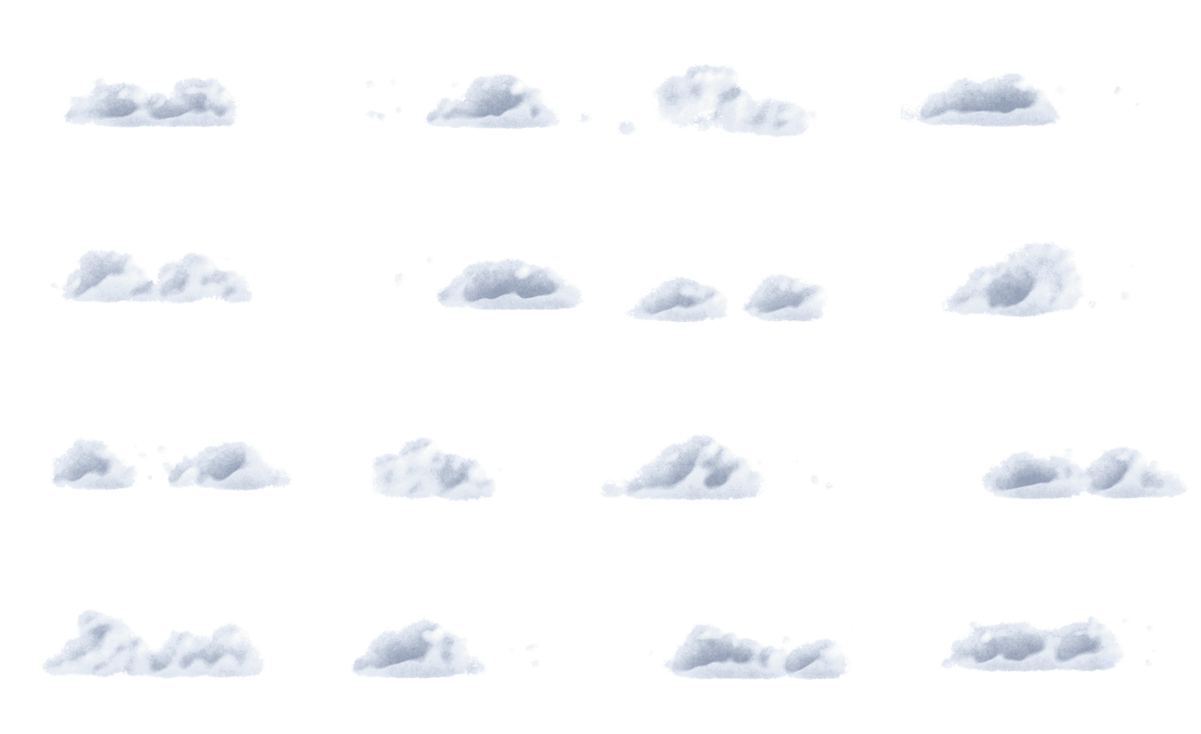
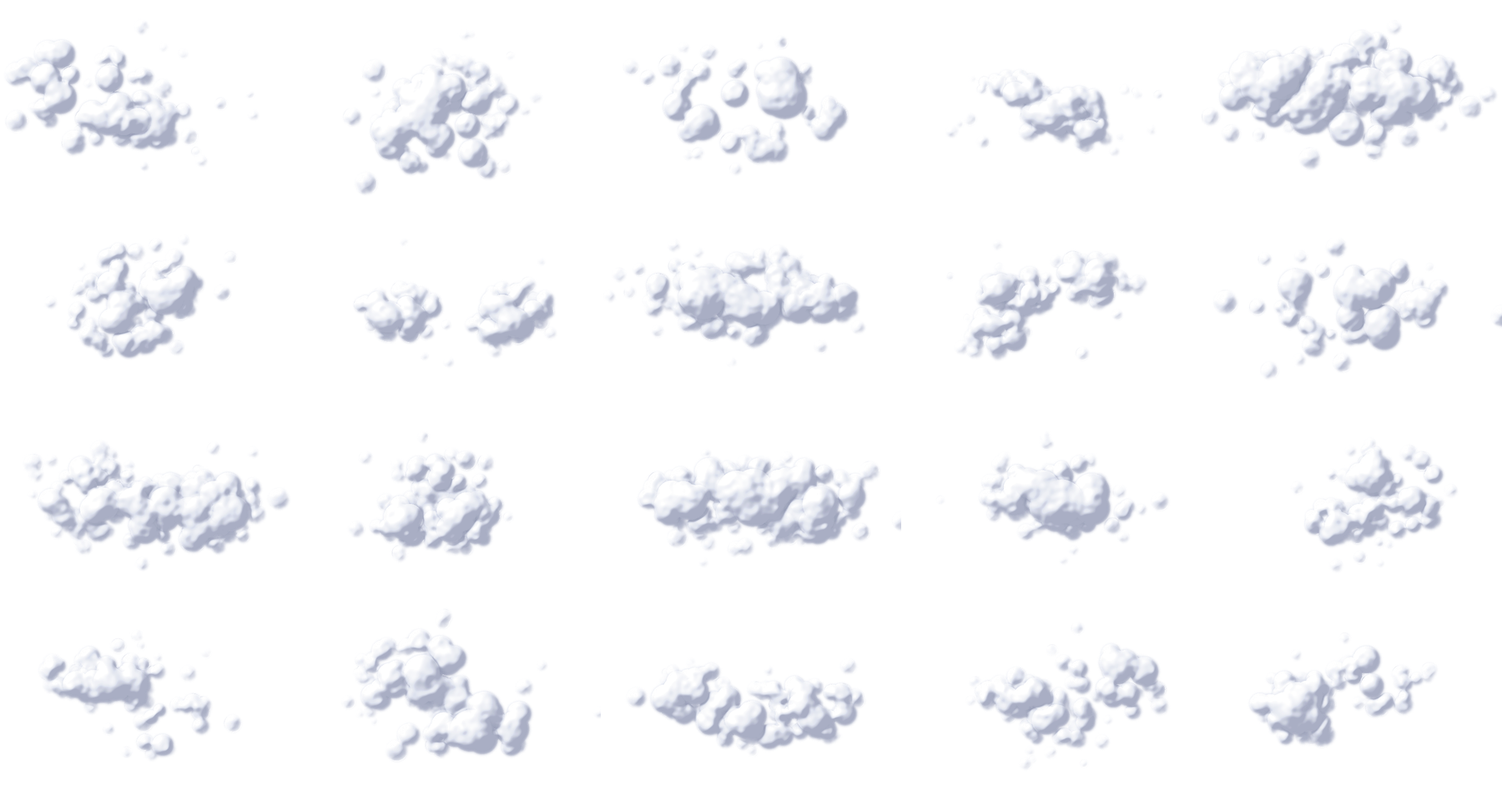
Облака вида сверху (мягко слитые клубы, свет по нормали, тающий край), прозрачнее при приближении, параллакс, бесконечный поток вокруг видимой части карты; подсказка над провинцией снова оформлена
Claude-Session: https://claude.ai/code/session_01DB8qGZSVeWu67G2NacHSuU

diff --git a/index.html b/index.html
@@ -41,7 +41,7 @@ h2,h3{font-weight:normal;color:var(--gold2);margin:4px 0 8px}
 #veccv{position:absolute;left:0;top:0;pointer-events:none;z-index:1}
 #cloudcv{position:absolute;left:0;top:0;pointer-events:none;z-index:2}
 #mapover{position:absolute;left:0;top:0;transform-origin:0 0;z-index:2;pointer-events:none}
-#mapinner.far #ptip{position:fixed;pointer-events:none;z-index:20;background:rgba(20,12,24,.92);border:1px solid var(--gold);border-radius:6px;padding:3px 8px;font-size:13px;white-space:nowrap}
+#ptip{position:fixed;pointer-events:none;z-index:20;background:rgba(20,12,24,.92);border:1px solid var(--gold);border-radius:6px;padding:3px 8px;font-size:13px;white-space:nowrap}
 #markers{position:absolute;left:0;top:0}
 .rm{position:absolute;transform:translate(-50%,-50%) scale(var(--s,1));pointer-events:auto;cursor:pointer;text-align:center;white-space:nowrap}
 .rm .dot{display:inline-block;width:14px;height:14px;border-radius:3px;border:2px solid #2a1a10;vertical-align:middle}
@@ -165,7 +165,7 @@ table.t td,table.t th{border-bottom:1px solid #3a2b42;padding:3px 6px;text-align
 <script src="borders.js"></script>
 <script src="roads.js"></script>
 <script>
-const GAME_VERSION = {"v": 64, "date": "07.11.2026 17:43"};
+const GAME_VERSION = {"v": 65, "date": "07.11.2026 20:53"};
 'use strict';
 /* =====================================================================
    ДЕРЖАВА ПАЛЕОЛОГОВ — один файл. Разделы:
@@ -2971,15 +2971,18 @@ if (!HEADLESS && typeof fetch !== 'undefined' && location.protocol !== 'file:') 
     CA.img = im; CA.sh = c; CA.meta = m;
   }; im.src = 'clouds.png';
 }).catch(() => { });
-function cloudsInit() {
-  if (CL.list.length || !MAPINFO || !CA.meta) return;
-  let s = 7; const r = () => (s = (s * 16807) % 2147483647) / 2147483647, n = CA.meta.n;
-  for (let i = 0; i < 22; i++) {
-    const parts = [], k = 2 + Math.floor(r() * 3), sz = 150 + r() * 120;   // ширина главной части, px карты
-    for (let j = 0; j < k; j++) parts.push({ s: Math.floor(r() * n), dx: j ? (r() - 0.5) * sz * 1.1 : 0, dy: j ? (r() - 0.6) * sz * 0.22 : 0, w: sz * (j ? 0.45 + r() * 0.45 : 1), fl: r() < 0.5, a: j ? 0.85 + r() * 0.15 : 1 });
-    parts.sort((p, q) => p.dy - q.dy);   // дальние (выше) — раньше
-    CL.list.push({ x: r() * MAPINFO.W, y: r() * MAPINFO.H, w: sz * 1.8, parts, v: 0.6 + r() * 0.7 });
-  }
+// облака идут вокруг того места, куда смотрит игрок: «область облаков» = видимая часть карты с запасом;
+// облако, ушедшее за неё по ветру, снова рождается с наветренной (западной) стороны и плавно проявляется
+const WIND = [9, 1.6];   // px карты в секунду
+let CSEED = 7; const crnd = () => (CSEED = (CSEED * 16807) % 2147483647) / 2147483647;
+function newCloud(c, x0, y0, x1, y1, upwind) {
+  const n = CA.meta.n, parts = [], k = 2 + Math.floor(crnd() * 3), sz = 150 + crnd() * 130;
+  for (let j = 0; j < k; j++) parts.push({ s: Math.floor(crnd() * n), dx: j ? (crnd() - 0.5) * sz * 1.2 : 0, dy: j ? (crnd() - 0.5) * sz * 0.45 : 0, w: sz * (j ? 0.45 + crnd() * 0.5 : 1), fl: crnd() < 0.5, fv: crnd() < 0.3 });
+  parts.sort((p, q) => p.dy - q.dy);
+  c.parts = parts; c.w = sz * 1.9; c.v = 0.6 + crnd() * 0.7; c.age = 0;
+  if (upwind) { c.x = x0 - c.w * (0.6 + crnd()); c.y = y0 + crnd() * (y1 - y0); }
+  else { c.x = x0 + crnd() * (x1 - x0); c.y = y0 + crnd() * (y1 - y0); }
+  return c;
 }
 function cloudFrame(now) {
   requestAnimationFrame(cloudFrame);
@@ -2988,24 +2991,36 @@ function cloudFrame(now) {
   if (!show) { if (cv.width) { cv.width = 0; } CL.last = now; return; }
   if (now - CL.last < 33 || !CA.img) return;   // ~30 кадров/с
   const dt = Math.min(0.2, (now - CL.last) / 1000); CL.last = now;
-  cloudsInit();
   const wrap = $('mapwrap'), dpr = Math.min(2, window.devicePixelRatio || 1), Wd = wrap.clientWidth, Hd = wrap.clientHeight;
   if (cv.width !== Math.round(Wd * dpr) || cv.height !== Math.round(Hd * dpr)) { cv.width = Math.round(Wd * dpr); cv.height = Math.round(Hd * dpr); cv.style.width = Wd + 'px'; cv.style.height = Hd + 'px'; }
   const x = cv.getContext('2d'), v = UI.view, z = v.z, M = MAPINFO;
   x.setTransform(1, 0, 0, 1, 0, 0); x.clearRect(0, 0, cv.width, cv.height);
-  x.setTransform(dpr * z, 0, 0, dpr * z, dpr * v.x, dpr * v.y);
-  const fade = clamp(1.25 - (z * M.W / 5298 - 0.6) * 0.45, 0.35, 1);   // вблизи облака прозрачнее
-  const vx0 = -v.x / z, vy0 = -v.y / z, vx1 = vx0 + Wd / z, vy1 = vy0 + Hd / z;
-  const m = CA.meta, sw = m ? m.w : 1, shh = m ? m.h : 1;
+  // видимость от приближения: на отдалении плотные, вблизи почти прозрачные (не мешают рассматривать карту)
+  const zs = z * M.W / 5298, fade = clamp(1.12 - zs * 0.42, 0.08, 1), shf = clamp(1.1 - zs * 0.3, 0.25, 1);
+  // область облаков: видимое + запас; количество — по площади (≈ одно облако на 520×520 px карты)
+  const vx0 = -v.x / z, vy0 = -v.y / z, vx1 = vx0 + Wd / z, vy1 = vy0 + Hd / z, mw = (vx1 - vx0) * 0.5 + 300, mh = (vy1 - vy0) * 0.5 + 200;
+  const ax0 = vx0 - mw, ay0 = vy0 - mh, ax1 = vx1 + mw, ay1 = vy1 + mh;
+  const want = clamp(Math.round((ax1 - ax0) * (ay1 - ay0) / (520 * 520)), 4, 46);
+  while (CL.list.length < want) CL.list.push(newCloud({}, ax0, ay0, ax1, ay1, false));
+  if (CL.list.length > want) CL.list.length = want;
+  const m = CA.meta, sw = m.w, shh = m.h;
+  // параллакс: облака выше земли — при сдвиге карты смещаются чуть сильнее своих теней
+  const cxs = Wd / 2, cys = Hd / 2, PAR = 1.1;
   for (const c of CL.list) {
-    c.x += 9 * c.v * dt; c.y += 1.6 * c.v * dt;               // ветер с запада
-    if (c.x > M.W + 300) c.x = -c.w - 300; if (c.y > M.H + 200) c.y = -200;
-    if (c.x + c.w + 120 < vx0 || c.x - c.w - 120 > vx1 || c.y + c.w + 160 < vy0 || c.y - c.w > vy1) continue;
-    for (const pass of [0, 1]) for (const p of c.parts) {
-      const w = p.w, h = w * shh / sw, sx = (p.s % m.cols) * sw, sy = Math.floor(p.s / m.cols) * shh;
-      x.save(); x.translate(c.x + p.dx + (pass ? 0 : 60), c.y + p.dy + (pass ? 0 : 95)); if (p.fl) x.scale(-1, 1);
-      x.globalAlpha = (pass ? 0.92 * p.a : 0.16) * fade; x.drawImage(pass ? CA.img : CA.sh, sx, sy, sw, shh, -w / 2, -h, w, h);
-      x.restore();
+    c.x += WIND[0] * c.v * dt; c.y += WIND[1] * c.v * dt; c.age += dt;
+    if (c.x - c.w > ax1 || c.y - c.w > ay1) newCloud(c, ax0, ay0, ax1, ay1, true);            // ушло по ветру — новое с запада
+    else if (c.x + c.w < ax0 - 400 || c.y + c.w < ay0 - 400 || c.x - c.w > ax1 + 400) newCloud(c, ax0, ay0, ax1, ay1, false);   // карту сдвинули далеко
+    const born = clamp(c.age / 3, 0, 1);
+    if (c.x + c.w + 120 < vx0 - 200 || c.x - c.w - 120 > vx1 + 200 || c.y + c.w + 160 < vy0 - 200 || c.y - c.w > vy1 + 200) continue;
+    for (const pass of [0, 1]) {
+      if (pass) x.setTransform(dpr * z * PAR, 0, 0, dpr * z * PAR, dpr * (cxs + (v.x - cxs) * PAR), dpr * (cys + (v.y - cys) * PAR));
+      else x.setTransform(dpr * z, 0, 0, dpr * z, dpr * v.x, dpr * v.y);
+      for (const p of c.parts) {
+        const w = p.w, h = w * shh / sw, sx = (p.s % m.cols) * sw, sy = Math.floor(p.s / m.cols) * shh;
+        x.save(); x.translate(c.x + p.dx + (pass ? 0 : 70), c.y + p.dy + (pass ? 0 : 90)); x.scale(p.fl ? -1 : 1, p.fv ? -1 : 1);
+        x.globalAlpha = (pass ? 0.95 * fade : 0.17 * shf) * born; x.drawImage(pass ? CA.img : CA.sh, sx, sy, sw, shh, -w / 2, -h / 2, w, h);
+        x.restore();
+      }
     }
   }
   x.globalAlpha = 1;

diff --git a/tools/src/6_ui.js b/tools/src/6_ui.js
@@ -722,15 +722,18 @@ if (!HEADLESS && typeof fetch !== 'undefined' && location.protocol !== 'file:') 
     CA.img = im; CA.sh = c; CA.meta = m;
   }; im.src = 'clouds.png';
 }).catch(() => { });
-function cloudsInit() {
-  if (CL.list.length || !MAPINFO || !CA.meta) return;
-  let s = 7; const r = () => (s = (s * 16807) % 2147483647) / 2147483647, n = CA.meta.n;
-  for (let i = 0; i < 22; i++) {
-    const parts = [], k = 2 + Math.floor(r() * 3), sz = 150 + r() * 120;   // ширина главной части, px карты
-    for (let j = 0; j < k; j++) parts.push({ s: Math.floor(r() * n), dx: j ? (r() - 0.5) * sz * 1.1 : 0, dy: j ? (r() - 0.6) * sz * 0.22 : 0, w: sz * (j ? 0.45 + r() * 0.45 : 1), fl: r() < 0.5, a: j ? 0.85 + r() * 0.15 : 1 });
-    parts.sort((p, q) => p.dy - q.dy);   // дальние (выше) — раньше
-    CL.list.push({ x: r() * MAPINFO.W, y: r() * MAPINFO.H, w: sz * 1.8, parts, v: 0.6 + r() * 0.7 });
-  }
+// облака идут вокруг того места, куда смотрит игрок: «область облаков» = видимая часть карты с запасом;
+// облако, ушедшее за неё по ветру, снова рождается с наветренной (западной) стороны и плавно проявляется
+const WIND = [9, 1.6];   // px карты в секунду
+let CSEED = 7; const crnd = () => (CSEED = (CSEED * 16807) % 2147483647) / 2147483647;
+function newCloud(c, x0, y0, x1, y1, upwind) {
+  const n = CA.meta.n, parts = [], k = 2 + Math.floor(crnd() * 3), sz = 150 + crnd() * 130;
+  for (let j = 0; j < k; j++) parts.push({ s: Math.floor(crnd() * n), dx: j ? (crnd() - 0.5) * sz * 1.2 : 0, dy: j ? (crnd() - 0.5) * sz * 0.45 : 0, w: sz * (j ? 0.45 + crnd() * 0.5 : 1), fl: crnd() < 0.5, fv: crnd() < 0.3 });
+  parts.sort((p, q) => p.dy - q.dy);
+  c.parts = parts; c.w = sz * 1.9; c.v = 0.6 + crnd() * 0.7; c.age = 0;
+  if (upwind) { c.x = x0 - c.w * (0.6 + crnd()); c.y = y0 + crnd() * (y1 - y0); }
+  else { c.x = x0 + crnd() * (x1 - x0); c.y = y0 + crnd() * (y1 - y0); }
+  return c;
 }
 function cloudFrame(now) {
   requestAnimationFrame(cloudFrame);
@@ -739,24 +742,36 @@ function cloudFrame(now) {
   if (!show) { if (cv.width) { cv.width = 0; } CL.last = now; return; }
   if (now - CL.last < 33 || !CA.img) return;   // ~30 кадров/с
   const dt = Math.min(0.2, (now - CL.last) / 1000); CL.last = now;
-  cloudsInit();
   const wrap = $('mapwrap'), dpr = Math.min(2, window.devicePixelRatio || 1), Wd = wrap.clientWidth, Hd = wrap.clientHeight;
   if (cv.width !== Math.round(Wd * dpr) || cv.height !== Math.round(Hd * dpr)) { cv.width = Math.round(Wd * dpr); cv.height = Math.round(Hd * dpr); cv.style.width = Wd + 'px'; cv.style.height = Hd + 'px'; }
   const x = cv.getContext('2d'), v = UI.view, z = v.z, M = MAPINFO;
   x.setTransform(1, 0, 0, 1, 0, 0); x.clearRect(0, 0, cv.width, cv.height);
-  x.setTransform(dpr * z, 0, 0, dpr * z, dpr * v.x, dpr * v.y);
-  const fade = clamp(1.25 - (z * M.W / 5298 - 0.6) * 0.45, 0.35, 1);   // вблизи облака прозрачнее
-  const vx0 = -v.x / z, vy0 = -v.y / z, vx1 = vx0 + Wd / z, vy1 = vy0 + Hd / z;
-  const m = CA.meta, sw = m ? m.w : 1, shh = m ? m.h : 1;
+  // видимость от приближения: на отдалении плотные, вблизи почти прозрачные (не мешают рассматривать карту)
+  const zs = z * M.W / 5298, fade = clamp(1.12 - zs * 0.42, 0.08, 1), shf = clamp(1.1 - zs * 0.3, 0.25, 1);
+  // область облаков: видимое + запас; количество — по площади (≈ одно облако на 520×520 px карты)
+  const vx0 = -v.x / z, vy0 = -v.y / z, vx1 = vx0 + Wd / z, vy1 = vy0 + Hd / z, mw = (vx1 - vx0) * 0.5 + 300, mh = (vy1 - vy0) * 0.5 + 200;
+  const ax0 = vx0 - mw, ay0 = vy0 - mh, ax1 = vx1 + mw, ay1 = vy1 + mh;
+  const want = clamp(Math.round((ax1 - ax0) * (ay1 - ay0) / (520 * 520)), 4, 46);
+  while (CL.list.length < want) CL.list.push(newCloud({}, ax0, ay0, ax1, ay1, false));
+  if (CL.list.length > want) CL.list.length = want;
+  const m = CA.meta, sw = m.w, shh = m.h;
+  // параллакс: облака выше земли — при сдвиге карты смещаются чуть сильнее своих теней
+  const cxs = Wd / 2, cys = Hd / 2, PAR = 1.1;
   for (const c of CL.list) {
-    c.x += 9 * c.v * dt; c.y += 1.6 * c.v * dt;               // ветер с запада
-    if (c.x > M.W + 300) c.x = -c.w - 300; if (c.y > M.H + 200) c.y = -200;
-    if (c.x + c.w + 120 < vx0 || c.x - c.w - 120 > vx1 || c.y + c.w + 160 < vy0 || c.y - c.w > vy1) continue;
-    for (const pass of [0, 1]) for (const p of c.parts) {
-      const w = p.w, h = w * shh / sw, sx = (p.s % m.cols) * sw, sy = Math.floor(p.s / m.cols) * shh;
-      x.save(); x.translate(c.x + p.dx + (pass ? 0 : 60), c.y + p.dy + (pass ? 0 : 95)); if (p.fl) x.scale(-1, 1);
-      x.globalAlpha = (pass ? 0.92 * p.a : 0.16) * fade; x.drawImage(pass ? CA.img : CA.sh, sx, sy, sw, shh, -w / 2, -h, w, h);
-      x.restore();
+    c.x += WIND[0] * c.v * dt; c.y += WIND[1] * c.v * dt; c.age += dt;
+    if (c.x - c.w > ax1 || c.y - c.w > ay1) newCloud(c, ax0, ay0, ax1, ay1, true);            // ушло по ветру — новое с запада
+    else if (c.x + c.w < ax0 - 400 || c.y + c.w < ay0 - 400 || c.x - c.w > ax1 + 400) newCloud(c, ax0, ay0, ax1, ay1, false);   // карту сдвинули далеко
+    const born = clamp(c.age / 3, 0, 1);
+    if (c.x + c.w + 120 < vx0 - 200 || c.x - c.w - 120 > vx1 + 200 || c.y + c.w + 160 < vy0 - 200 || c.y - c.w > vy1 + 200) continue;
+    for (const pass of [0, 1]) {
+      if (pass) x.setTransform(dpr * z * PAR, 0, 0, dpr * z * PAR, dpr * (cxs + (v.x - cxs) * PAR), dpr * (cys + (v.y - cys) * PAR));
+      else x.setTransform(dpr * z, 0, 0, dpr * z, dpr * v.x, dpr * v.y);
+      for (const p of c.parts) {
+        const w = p.w, h = w * shh / sw, sx = (p.s % m.cols) * sw, sy = Math.floor(p.s / m.cols) * shh;
+        x.save(); x.translate(c.x + p.dx + (pass ? 0 : 70), c.y + p.dy + (pass ? 0 : 90)); x.scale(p.fl ? -1 : 1, p.fv ? -1 : 1);
+        x.globalAlpha = (pass ? 0.95 * fade : 0.17 * shf) * born; x.drawImage(pass ? CA.img : CA.sh, sx, sy, sw, shh, -w / 2, -h / 2, w, h);
+        x.restore();
+      }
     }
   }
   x.globalAlpha = 1;

diff --git a/tools/src/1_head.html b/tools/src/1_head.html
@@ -41,7 +41,7 @@ h2,h3{font-weight:normal;color:var(--gold2);margin:4px 0 8px}
 #veccv{position:absolute;left:0;top:0;pointer-events:none;z-index:1}
 #cloudcv{position:absolute;left:0;top:0;pointer-events:none;z-index:2}
 #mapover{position:absolute;left:0;top:0;transform-origin:0 0;z-index:2;pointer-events:none}
-#mapinner.far #ptip{position:fixed;pointer-events:none;z-index:20;background:rgba(20,12,24,.92);border:1px solid var(--gold);border-radius:6px;padding:3px 8px;font-size:13px;white-space:nowrap}
+#ptip{position:fixed;pointer-events:none;z-index:20;background:rgba(20,12,24,.92);border:1px solid var(--gold);border-radius:6px;padding:3px 8px;font-size:13px;white-space:nowrap}
 #markers{position:absolute;left:0;top:0}
 .rm{position:absolute;transform:translate(-50%,-50%) scale(var(--s,1));pointer-events:auto;cursor:pointer;text-align:center;white-space:nowrap}
 .rm .dot{display:inline-block;width:14px;height:14px;border-radius:3px;border:2px solid #2a1a10;vertical-align:middle}

diff --git a/tools/mkclouds.py b/tools/mkclouds.py
@@ -1,67 +1,83 @@
-# Облака в духе Knights of Honor: объёмные, пористые, из множества клубов; свет сверху-слева.
-# Выход: ../clouds.png (атлас N×(SW×SH), RGBA) и ../clouds.json ({w, h, n, cols}).
-# Игра собирает облако на карте из 2–4 заготовок атласа («конструктор») + мелкие клочки.
+# Облака в духе Knights of Honor — ВИД СВЕРХУ: «цветная капуста» из десятков шаров-клубов.
+# Поле высот = максимум полусфер клубов; освещение по нормали (свет сверху-слева), тёмные ложбинки между клубами,
+# тонкие полупрозрачные края, мелкие оторванные клочки вокруг.
+# Выход: ../clouds.png (атлас N заготовок SW×SH, RGBA) и ../clouds.json. Игра собирает облако из 2–4 заготовок.
 import os, sys, json
 import numpy as np
 from PIL import Image
 import scipy.ndimage as nd
 SP = os.path.dirname(os.path.abspath(__file__)) + '/'
 OUT = sys.argv[1] if len(sys.argv) > 1 else SP + '..'
-SW, SH, N, COLS = 360, 220, 16, 4
-def fbm(shape, scale, rng, oct=5):
-    o = np.zeros(shape, np.float32); a = 1.0; t = 0
-    for i in range(oct):
-        o += a * nd.gaussian_filter(rng.standard_normal(shape).astype(np.float32), max(scale / 2 ** i, 0.6)); t += a; a *= 0.55
-    o -= o.mean(); return o / (o.std() + 1e-6)
+SW, SH, N, COLS = 360, 240, 20, 5
+S = 2
+LIGHT = np.array([-0.55, -0.62, 0.5]); LIGHT /= np.linalg.norm(LIGHT)
+def fbm(shape, s, r, oct=4):
+    o = np.zeros(shape, np.float32); a = 1
+    for i in range(oct): o += a * nd.gaussian_filter(r.standard_normal(shape).astype(np.float32), max(s / 2 ** i, .6)); a *= .55
+    return (o - o.mean()) / (o.std() + 1e-6)
 def cloud(seed):
     r = np.random.default_rng(seed)
-    S = 2; H, W = SH * S, SW * S
-    yy, xx = np.mgrid[0:H, 0:W].astype(np.float32)
-    D = np.zeros((H, W), np.float32)
-    kind = r.integers(0, 4)
-    ncl = [1, 2, 3, 2][kind]
-    base = H * r.uniform(0.62, 0.72)
-    span = W * [0.4, 0.52, 0.58, 0.48][kind]
-    centers = np.sort(r.uniform(W / 2 - span / 2, W / 2 + span / 2, ncl))
-    for c in centers:
-        cw = span / ncl * r.uniform(0.7, 1.15); ch = cw * r.uniform(0.45, 0.8) * [1.0, 0.9, 0.7, 0.6][kind]
-        npf = int(r.integers(18, 34))
-        for _ in range(npf):
-            px = c + r.normal(0, cw * 0.32); t = abs(px - c) / (cw * 0.6)
-            top = base - ch * max(0.15, 1 - t * t) * r.uniform(0.55, 1.1)
-            py = r.uniform(top, base)
-            pr = r.uniform(9, 24) * S * (1.2 - 0.45 * (py - top) / max(1, base - top))
-            D += np.exp(-(((xx - px) ** 2 + (yy - py) ** 2) / (pr * pr)) * 1.6)
-    # «барашки» по верхнему краю — выпуклые клубы, как у кучевых облаков
-    Dt = nd.gaussian_filter(D, 2 * S); prof = (Dt > 0.6).argmax(0)
-    for _ in range(int(r.integers(14, 26))):
-        px = int(r.uniform(W / 2 - span * 0.55, W / 2 + span * 0.55)); ty = prof[px]
-        if ty <= 0: continue
-        pr = r.uniform(6, 13) * S
-        D += 0.9 * np.exp(-(((xx - px) ** 2 + (yy - (ty + pr * 0.35)) ** 2) / (pr * pr)) * 1.6)
-    # отдельные клочки вокруг — «пористость» и рваный край
-    for _ in range(int(r.integers(6, 14))):
-        px = r.uniform(W / 2 - span * 0.62, W / 2 + span * 0.62); py = r.uniform(base - span * 0.28, base); pr = r.uniform(4, 10) * S
-        D += 0.75 * np.exp(-(((xx - px) ** 2 + (yy - py) ** 2) / (pr * pr)) * 1.6)
-    D *= np.clip(1 - (yy - base) / (10 * S), 0, 1)                    # плоское дно
-    n1 = fbm((H, W), 12 * S, r); n2 = fbm((H, W), 4 * S, r)
-    near = np.clip(nd.gaussian_filter(D, 6 * S) * 3, 0, 1)            # шум края — только у самого облака
-    De = D * (1 + 0.22 * n1) + near * (0.10 * n2 - 0.03)
-    A = np.clip((De - 0.26) / 0.62, 0, 1); A = A * A * (3 - 2 * A)   # мягкий, но рваный край
-    # освещение: сколько облака между точкой и светом (сверху-слева) + рельеф клубов (нормаль по градиенту)
-    Ds = nd.gaussian_filter(De, 2.0 * S)
-    occ = np.zeros_like(Ds)
-    for s in range(1, 9):
-        occ += np.roll(np.roll(Ds, s * 3 * S, 0), s * 3 * S, 1) * (0.9 ** s)
-    light = np.exp(-np.clip(occ, 0, None) * 0.075)
-    gy, gx = np.gradient(nd.gaussian_filter(D, 3.0 * S))
-    bump = np.clip(0.5 - (gx * 0.7 + gy * 0.7) * 9, 0, 1)            # округлые «барашки»: освещённая сторона клуба
-    sh = np.clip(light * 0.55 + bump * 0.6 + 0.04 * n2, 0, 1)
-    under = np.clip((yy - (base - 22 * S)) / (24 * S), 0, 1)          # низ — серо-голубой
-    sh = sh * (1 - 0.35 * under)
-    white = np.array([255, 255, 252], np.float32); mid = np.array([226, 232, 242], np.float32); dark = np.array([150, 162, 184], np.float32)
-    s3 = sh[..., None]
-    col = np.where(s3 > 0.5, mid + (white - mid) * ((s3 - 0.5) / 0.5), dark + (mid - dark) * (s3 / 0.5))
+    H, W = SH * S, SW * S
+    Sx = np.zeros((H, W), np.float64)              # сумма exp(h/k) — мягкое слияние клубов
+    KS = 7 * S
+    kind = r.integers(0, 4)                      # 0 — кучевое, 1 — гряда, 2 — россыпь, 3 — рваное
+    masses = {0: 1, 1: 3, 2: 4, 3: 2}[kind]
+    cx0, cy0 = W / 2, H / 2
+    puffs = []
+    for m in range(masses):
+        if kind == 1: mx, my = cx0 + (m - 1) * W * 0.2 + r.normal(0, 10), cy0 + r.normal(0, 14)
+        elif masses == 1: mx, my = cx0, cy0
+        else: mx, my = cx0 + r.uniform(-.22, .22) * W, cy0 + r.uniform(-.16, .16) * H
+        ax = W * r.uniform(.11, .2) * (1.2 if kind == 0 else 1) * (0.65 if kind == 2 else 1)
+        ay = ax * r.uniform(.45, .72)
+        ang = r.uniform(-.35, .35)
+        n = int(r.integers(16, 30) * (0.6 if kind == 2 else 1))
+        for _ in range(n):
+            u, v = r.normal(0, .5), r.normal(0, .5)
+            d = min(1.0, np.hypot(u, v))
+            px = mx + (u * np.cos(ang) - v * np.sin(ang)) * ax * 1.6
+            py = my + (u * np.sin(ang) + v * np.cos(ang)) * ay * 1.6
+            pr = r.uniform(12, 26) * S * (1.15 - 0.6 * d) * (ax / (W * .2)) ** .5
+            pz = (1 - d) * 22 * S                          # клубы в середине выше
+            puffs.append((px, py, pr, pz))
+        # кромка из мелких клубов — кудрявый силуэт
+        for _ in range(int(n * .9)):
+            t = r.uniform(0, 2 * np.pi); rr = r.uniform(.85, 1.15)
+            px = mx + (np.cos(t) * ax * np.cos(ang) - np.sin(t) * ay * np.sin(ang)) * rr
+            py = my + (np.cos(t) * ax * np.sin(ang) + np.sin(t) * ay * np.cos(ang)) * rr
+            puffs.append((px, py, r.uniform(6, 12) * S, r.uniform(0, 5) * S))
+    # оторванные клочки и «пыль» вокруг
+    for _ in range(int(r.integers(4, 12))):
+        a = r.uniform(0, 2 * np.pi); d = r.uniform(.24, .38)
+        puffs.append((cx0 + np.cos(a) * W * d, cy0 + np.sin(a) * H * d * 0.9, r.uniform(4, 8) * S, 0))
+    for px, py, pr, pz in puffs:
+        x0, x1 = int(max(0, px - pr - 1)), int(min(W, px + pr + 2)); y0, y1 = int(max(0, py - pr - 1)), int(min(H, py + pr + 2))
+        if x0 >= x1 or y0 >= y1: continue
+        yy, xx = np.mgrid[y0:y1, x0:x1].astype(np.float32)
+        q = 1 - ((xx - px) ** 2 + (yy - py) ** 2) / (pr * pr)
+        h = pz + pr * np.sqrt(np.clip(q, 0, 1))
+        Sx[y0:y1, x0:x1] += np.where(q > 0, np.exp(h / KS) - 1, 0)
+    Hc = (KS * np.log1p(Sx)).astype(np.float32)
+    inside = Hc > 0.5
+    n1 = fbm((H, W), 7 * S, r, oct=2)
+    Hs = nd.gaussian_filter(Hc, 2.2 * S) + n1 * 1.2 * S * inside        # мягкие неровности ваты
+    gy, gx = np.gradient(Hs)
+    nrm = np.stack([-gx, -gy, np.ones_like(gx)], -1); nrm /= np.linalg.norm(nrm, axis=-1, keepdims=True)
+    diff = np.clip(nrm @ LIGHT, 0, 1)
+    ao = np.clip(1 - np.clip(nd.gaussian_filter(Hc, 7 * S) - Hc, 0, None) / (14 * S), 0.45, 1)   # ложбинки темнее
+    lit = np.clip(diff * 0.95 + 0.18, 0, 1) * ao
+    white = np.array([255, 255, 255], np.float32); mid = np.array([224, 228, 240], np.float32); shade = np.array([138, 144, 172], np.float32)
+    thick = np.clip(Hc / (16 * S), 0, 1)
+    lit = lit * (0.75 + 0.25 * thick) + (1 - thick) * 0.25   # тонкий край просвечивает — светлее
+    l3 = np.clip(lit, 0, 1)[..., None]
+    col = np.where(l3 > .55, mid + (white - mid) * ((l3 - .55) / .45), shade + (mid - shade) * (l3 / .55))
+    # прозрачность: толщина облака + рваный пористый край
+    thick = np.clip(Hc / (16 * S), 0, 1)
+    n2 = fbm((H, W), 3 * S, r, oct=3)
+    near = nd.gaussian_filter(inside.astype(np.float32), 4 * S) > 0.05
+    A = np.clip(thick * 1.35 + n2 * 0.2 * thick * (1 - thick) * 4 - 0.04, 0, 1) * near
+    A = nd.gaussian_filter(A, 1.4 * S)              # мягкий, «тающий» край
+    A = A ** 0.9 * 0.97
     rgba = np.dstack([col, A[..., None] * 255]).clip(0, 255).astype(np.uint8)
     return Image.fromarray(rgba, 'RGBA').resize((SW, SH), Image.LANCZOS)
 rows = (N + COLS - 1) // COLS
